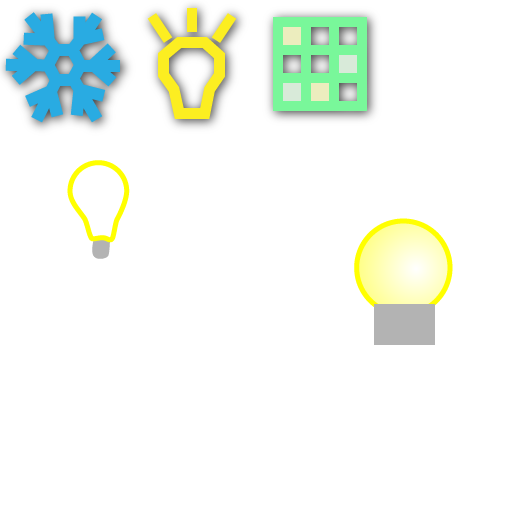
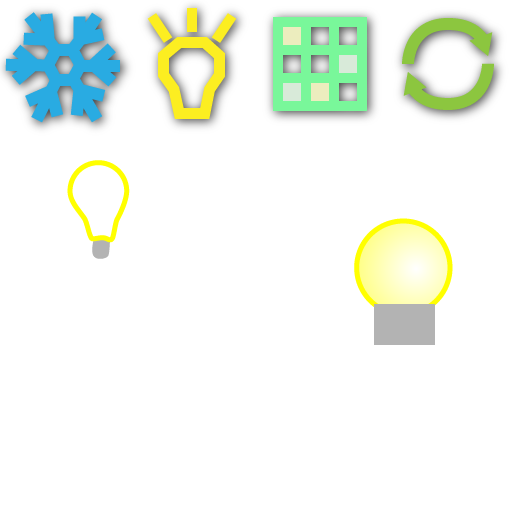
Add a Shuffle ability

Changed region(s): [[0.7812, 0.0312, 1.0, 0.25]]

diff --git a/MatchTwo/MTGame.m b/MatchTwo/MTGame.m
@@ -72,8 +72,7 @@
             piece.row = i;
             piece.column = j;
             // Add 0.5 * kMTPieceSize because the anchor is in the middle;
-            piece.position = ccp(kMTBoardStartingX+(j-0.5)* kMTPieceSize,
-                                 kMTBoardStartingY+(i-0.5)* kMTPieceSize);
+            piece.position = [self positionForPiece:piece];
             piece.game = self;
             [board addChild:piece];
         }
@@ -115,12 +114,14 @@
                   [[[MTAbilityFreeze alloc]init]autorelease],
                   [[[MTAbilityHint alloc]init]autorelease],
                   [[[MTAbilityHighlight alloc]init]autorelease],
+                  [[[MTAbilityShuffle alloc]init]autorelease],                  
                 nil] retain];
         
     abilityButtons = [[NSMutableArray arrayWithObjects:
                        [MTAbilityButton abilityButtonWithName:@"Hint" target:self selector:@selector(abilityButtonClicked:)], 
                        [MTAbilityButton abilityButtonWithName:@"Freeze" target:self selector:@selector(abilityButtonClicked:)], 
-                       [MTAbilityButton abilityButtonWithName:@"Highlight" target:self selector:@selector(abilityButtonClicked:)],                        
+                       [MTAbilityButton abilityButtonWithName:@"Highlight" target:self selector:@selector(abilityButtonClicked:)],
+                       [MTAbilityButton abilityButtonWithName:@"Shuffle" target:self selector:@selector(abilityButtonClicked:)],
                        nil]
                       retain];
     
@@ -169,6 +170,18 @@
     return array;
 }
 
+- (void)shuffle{
+    paused = YES;
+    // Add a text explaining the shuffle...
+    [board shuffle];
+    // Remove the text after the animation...
+    id delay = [CCDelayTime actionWithDuration:kMTBoardShuffleWarningTime+kMTBoardShuffleTime];   
+    id callResume = [CCCallBlock actionWithBlock:^{paused = NO;}];
+    [self runAction:[CCSequence actions:delay,
+                     callResume,
+                     nil]];
+}
+
 
 - (void)update:(ccTime)dt{
     if (paused) {
@@ -206,6 +219,8 @@
         if (!linkFound) {
             // Shuffle Board Here.
             CCLOG(@"No Link Found, Reshuffle needed...");
+            [self shuffle];
+            return;
         }
         needShuffleCheck = NO;
     }
@@ -367,6 +382,13 @@
     [self removeAllChildrenWithCleanup:YES];
     [self prepare];
 }
+
+- (CGPoint)positionForPiece:(MTPiece *)piece{
+    // Add 0.5 * kMTPieceSize because the anchor is in the middle;
+    CGPoint p = ccp(kMTBoardStartingX+(piece.column-0.5)* kMTPieceSize,
+                         kMTBoardStartingY+(piece.row-0.5)* kMTPieceSize);  
+    return p;
+}
                                      
 
 - (MTAbility *)abilityNamed:(NSString *)name{
@@ -402,6 +424,11 @@
     if (button.name == @"Hint") {
         needShuffleCheck = YES;
     }
+    
+    // On Trigger Ability Activate Here
+    if (button.name == @"Shuffle") {
+        [self shuffle];
+    }    
 }
 
 

diff --git a/MatchTwo/MTBoard.m b/MatchTwo/MTBoard.m
@@ -257,6 +257,43 @@
 
 }
 
+- (void)shuffle{
+    NSMutableArray * array = [NSMutableArray arrayWithCapacity:20];
+    for (MTPiece * p in self.children) {
+        if (p.enabled) {
+            [array addObject:p];
+        }
+    }
+    
+    // Shuffle the array
+    int numberOfShuffle = 2;
+    int totalCount = [array count];
+    
+    while (numberOfShuffle > 0) {
+        for (int i = 0; i < totalCount; ++i) {
+            // Select a random element between i and end of array to swap with.
+            int nElements = totalCount - i;
+            int n = (arc4random() % nElements) + i;
+            [array exchangeObjectAtIndex:i withObjectAtIndex:n];
+        }
+        numberOfShuffle--;
+    }
+    
+    // Assign pointer to shufflePiece
+    for (int i = 0; i < totalCount-1; ++i) {
+        MTPiece * piece1 = [array objectAtIndex:i];
+        MTPiece * piece2 = [array objectAtIndex:i+1];
+        piece1.shufflePiece = piece2;
+    }
+    
+    MTPiece * piece = [array lastObject];
+    piece.shufflePiece = [array objectAtIndex:0];
+    
+    for (MTPiece * p in array) {
+        [p shuffle];
+    }
+}
+
 - (void)resetHelper{
     [helper reset];
     for (MTPiece * piece in self.children) {

diff --git a/MatchTwo/MTPiece.m b/MatchTwo/MTPiece.m
@@ -22,7 +22,7 @@ CGRect rectForType(int type){
 
 @implementation MTPiece
 
-@synthesize row,column,type,enabled,hinted,pairedPiece,game;
+@synthesize row,column,type,enabled,hinted,pairedPiece,shufflePiece,game;
 
 - (void)setSelected:(BOOL)toBeSelected{
     if (!enabled) {
@@ -57,7 +57,7 @@ CGRect rectForType(int type){
 
 - (void)draw{
     if (hinted || [game isAbilityActive:@"Highlight"]) {
-        glColor4f((type+1.0)/9.0, 1.0, 0.0, 0.1); 
+        glColor4f((type+1.0)/9.0, 1.0, 0.0, 0.1);
         glLineWidth(1.0);
         glEnable(GL_LINE_SMOOTH);
         CGPoint points[4] = {
@@ -106,7 +106,16 @@ CGRect rectForType(int type){
                      nil]];
 }
 
-
+- (void)shuffle{
+    id delay = [CCDelayTime actionWithDuration:kMTBoardShuffleWarningTime];   
+    id move = [CCMoveTo actionWithDuration:kMTBoardShuffleTime
+                                  position:[game positionForPiece:shufflePiece]
+               ];
+    [self runAction:[CCSequence actions:delay,
+                     move,
+                     nil]];    
+    
+}
 
 
 @end

diff --git a/MatchTwo/MTPiece.h b/MatchTwo/MTPiece.h
@@ -27,6 +27,8 @@
     MTPiece * pairedPiece;
     
     MTGame * game;
+    
+    MTPiece * shufflePiece;
 }
 
 @property int row;
@@ -36,6 +38,7 @@
 @property BOOL enabled;
 @property BOOL hinted;
 @property (assign) MTPiece * pairedPiece;
+@property (assign) MTPiece * shufflePiece;
 @property (assign) MTGame * game;
 
 - (id)initWithType:(int)type;
@@ -45,6 +48,6 @@
 
 - (void)disappear;
 - (void)shake;
-
+- (void)shuffle;
 
 @end

diff --git a/MatchTwo/MTAbilityButton.m b/MatchTwo/MTAbilityButton.m
@@ -96,6 +96,7 @@ CGRect rectForIndex(int index){
     NSArray * nameArray = [NSArray arrayWithObjects:@"Freeze",
                            @"Hint",
                            @"Highlight",
+                           @"Shuffle",
                            nil];
     return [nameArray indexOfObject:buttonName];
 }

diff --git a/MatchTwo/MTAbility.m b/MatchTwo/MTAbility.m
@@ -142,3 +142,19 @@
 }
 
 @end
+
+@implementation MTAbilityShuffle
+
+- (id)init
+{
+    self = [super init];
+    if (self) {
+        // Possible to query SharedManager for Player Info
+        activeTime = 1.0f;
+        cooldownTime = 100000.0f;
+        name = @"Shuffle";
+    }
+    return self;
+}
+
+@end

diff --git a/MatchTwo/MTGame.h b/MatchTwo/MTGame.h
@@ -62,6 +62,10 @@
 - (void)pause;
 - (void)resume;
 
+// Shuffle the board, when no move is available
+- (void)shuffle;
+- (CGPoint)positionForPiece:(MTPiece *)piece;
+
 // Ability Related Internal Method
 - (MTAbility *)abilityNamed:(NSString *)name;
 - (BOOL)isAbilityActive:(NSString *)name;

diff --git a/MatchTwo/GameConfig.h b/MatchTwo/GameConfig.h
@@ -64,6 +64,9 @@
 #define kMTBoardStartingX 64.0f
 #define kMTBoardStartingY 200.0f
 
+#define kMTBoardShuffleWarningTime 2.0f
+#define kMTBoardShuffleTime 1.0f
+
 #define kMTTimeLineWidth 768.0f
 #define kMTTimeLineHeight 30.0f
 #define kMTTimeLineStartingX 0.0f

diff --git a/MatchTwo/MTAbility.h b/MatchTwo/MTAbility.h
@@ -60,9 +60,11 @@ typedef enum {
 @interface MTAbilityFreeze : MTAbility
 @end
 
-
 @interface MTAbilityHint : MTAbility
 @end
 
 @interface MTAbilityHighlight : MTAbility
+@end
+
+@interface MTAbilityShuffle : MTAbility
 @end

diff --git a/MatchTwo/MTBoard.h b/MatchTwo/MTBoard.h
@@ -38,6 +38,8 @@
 - (void)pause;
 - (void)resume;
 
+- (void)shuffle;
+
 - (BOOL)findLink;
 
 @end
